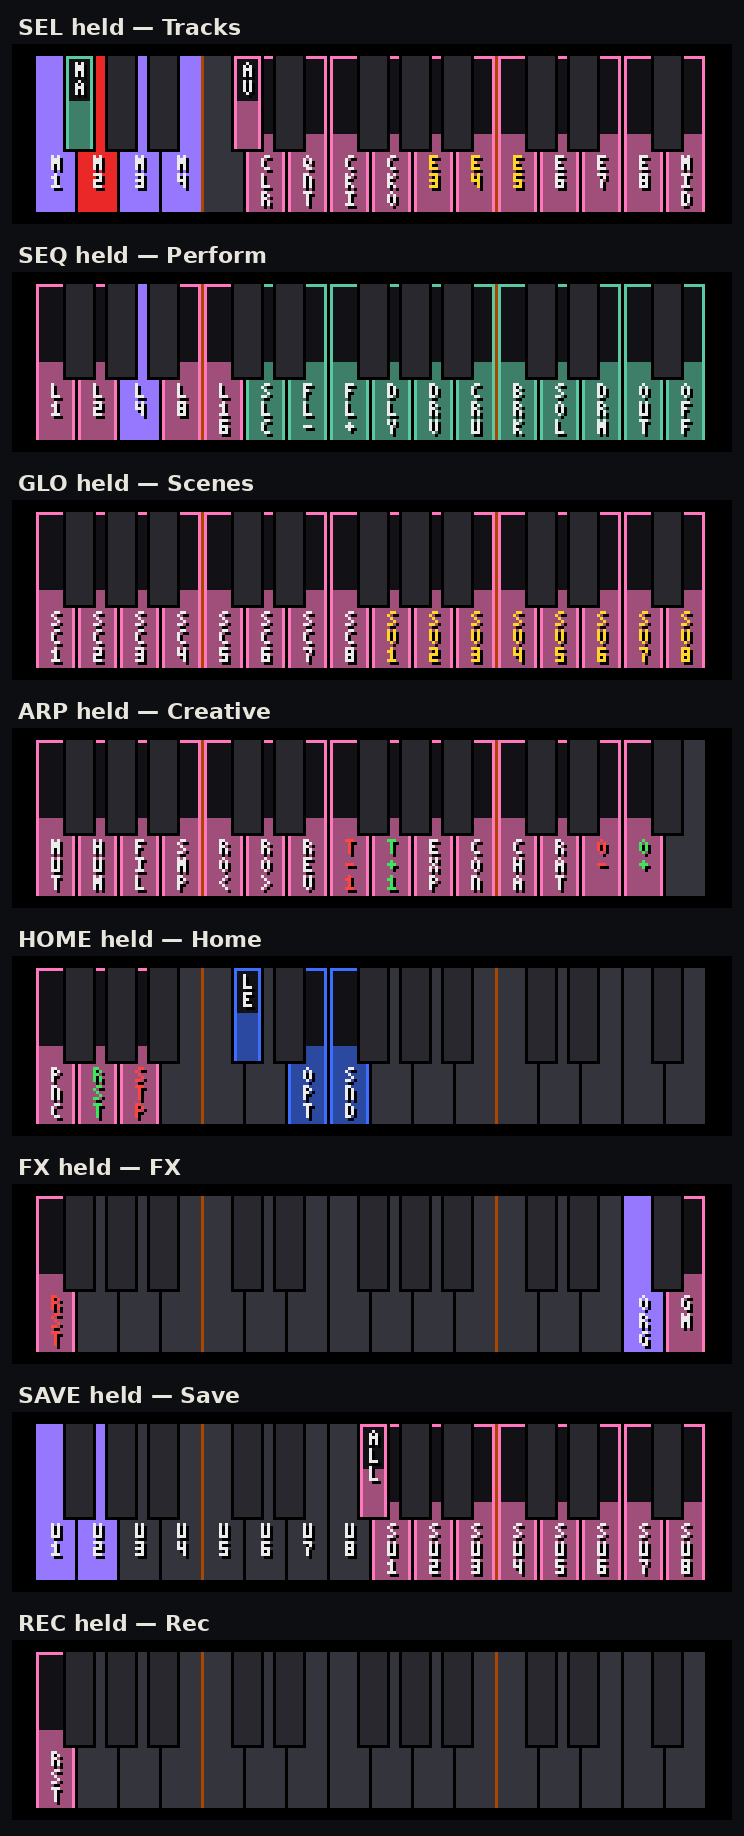
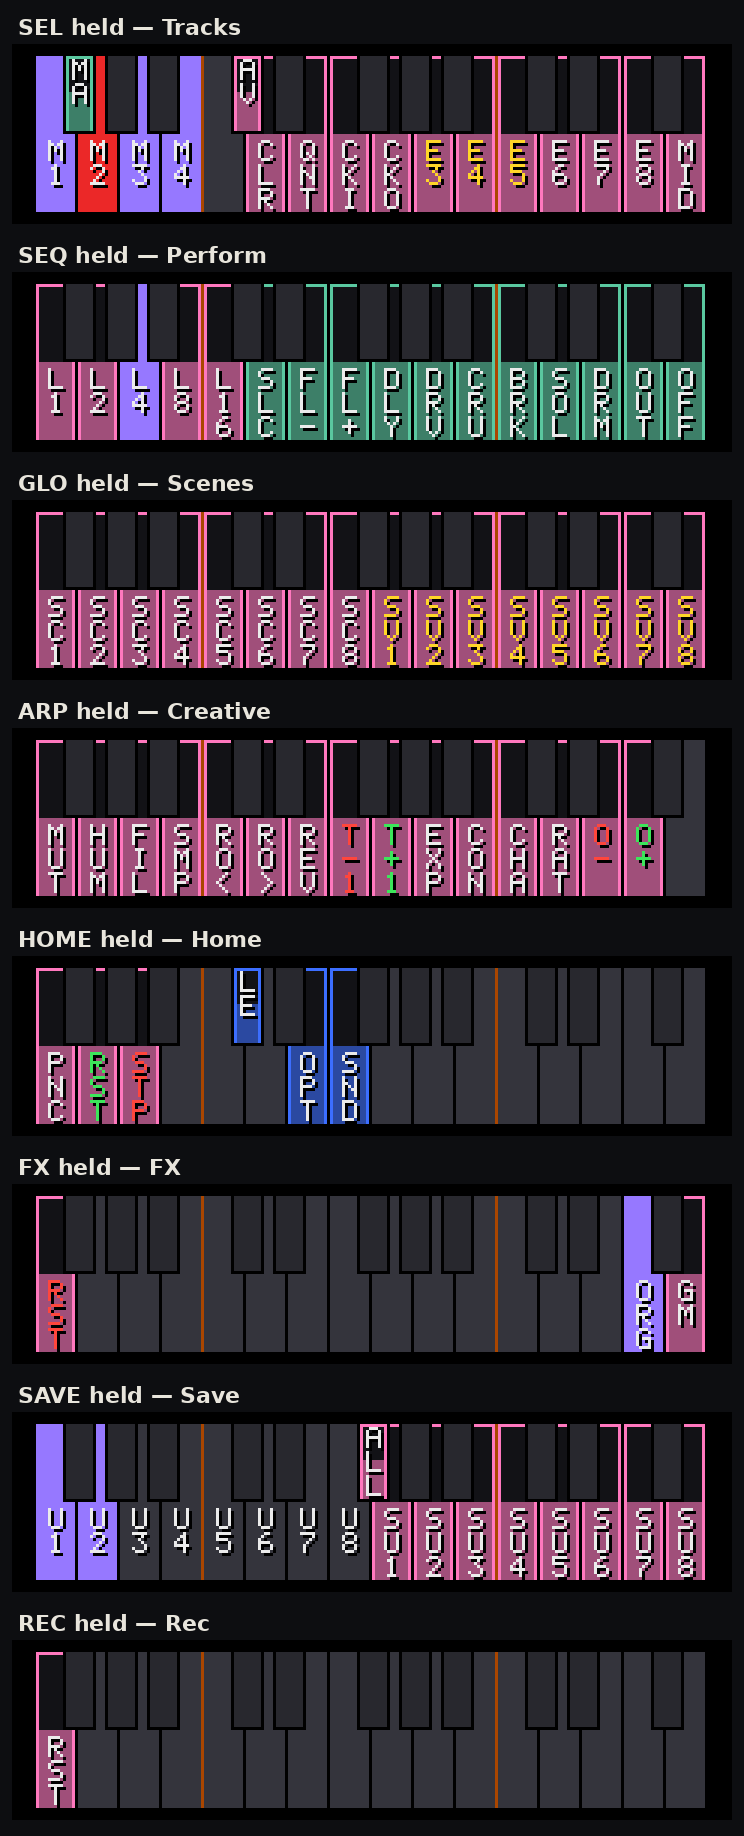
Bigger key names on the screen keyboard (CORE c03235b); doc pictures redrawn
Claude-Session: https://claude.ai/code/session_01N9f4HJn3ZZ4mEGDi7YNfQW

diff --git a/CHANGELOG.md b/CHANGELOG.md
@@ -1,5 +1,10 @@
 # Changelog
 
+## 20 November 2026 — bigger key names on the screen keyboard
+
+- The keys' names on the screen keyboard in a 5x7 font (was 3x5): easier to read. The black keys are 20 % shorter
+  from the bottom, so the white keys' names sit under them.
+
 ## 20 November 2026 — LOAD USER takes the sound at once
 
 - SAVE + white key 1–8 (LOAD USER) puts the sound on the line at once, also while its loop plays (it waited for SEL,
